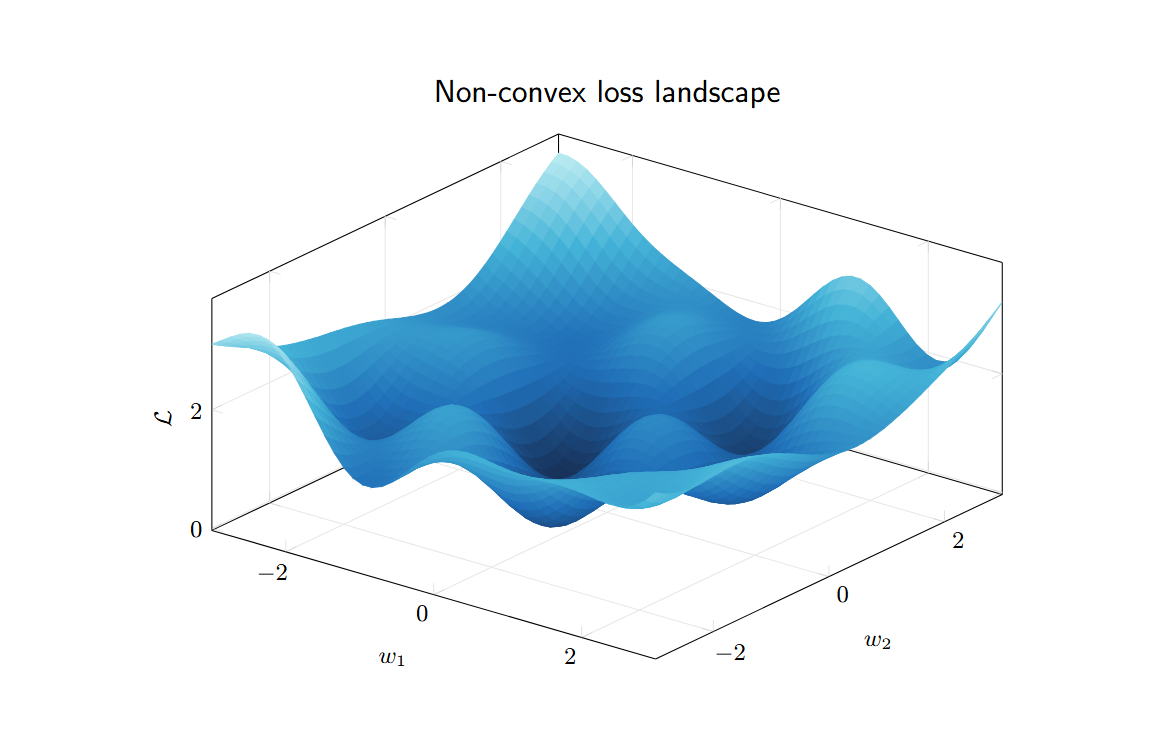
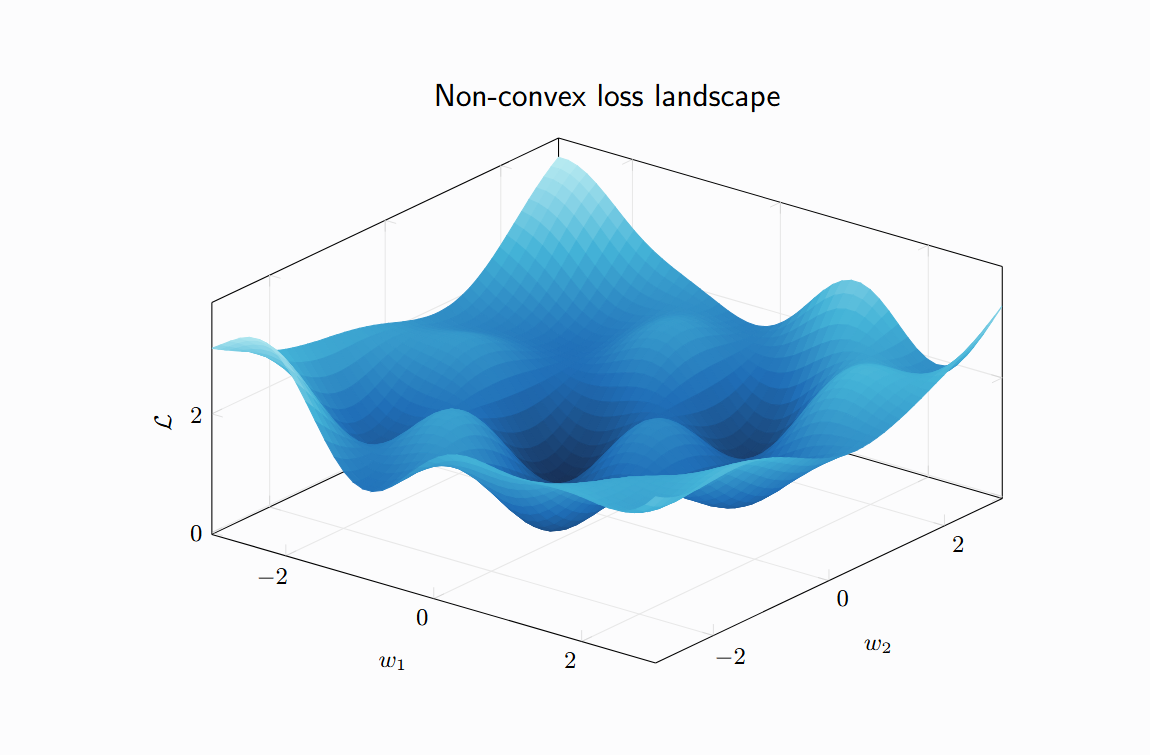
docs: 用新模板重新生成 README 示例图
- 6 张示例图（数学、化学、物理、损失曲面、圆环、神经网络）按新配色重新渲染
- render_showcase.py 不再写死 #FFFFFF 背景，改用插件默认背景，示例图与实际
  输出一致

diff --git a/scripts/render_showcase.py b/scripts/render_showcase.py
@@ -75,8 +75,9 @@ async def main():
     try:
         for name in args.names:
             source = (root / "examples" / f"{name}.md").read_text(encoding="utf-8")
+            # 使用插件默认背景，示例图与实际输出一致
             html = converter.convert_to_html(
-                await asyncio.to_thread(preprocess.preprocess, source), "#FFFFFF"
+                await asyncio.to_thread(preprocess.preprocess, source)
             )
             output = root / "examples" / f"{name}.png"
             try:
